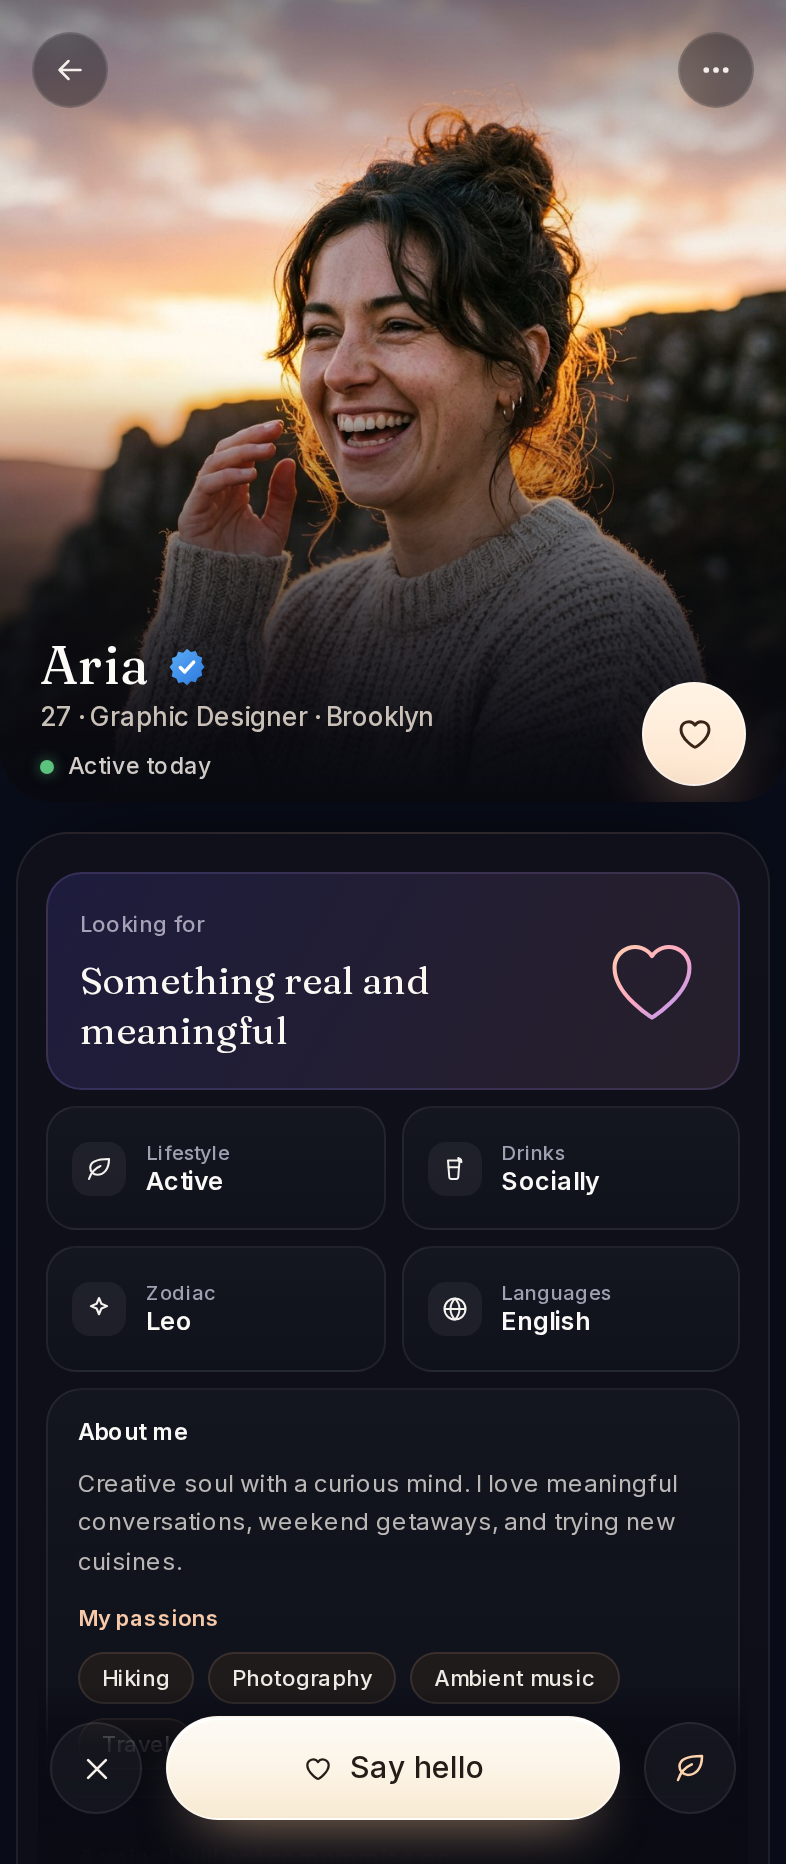
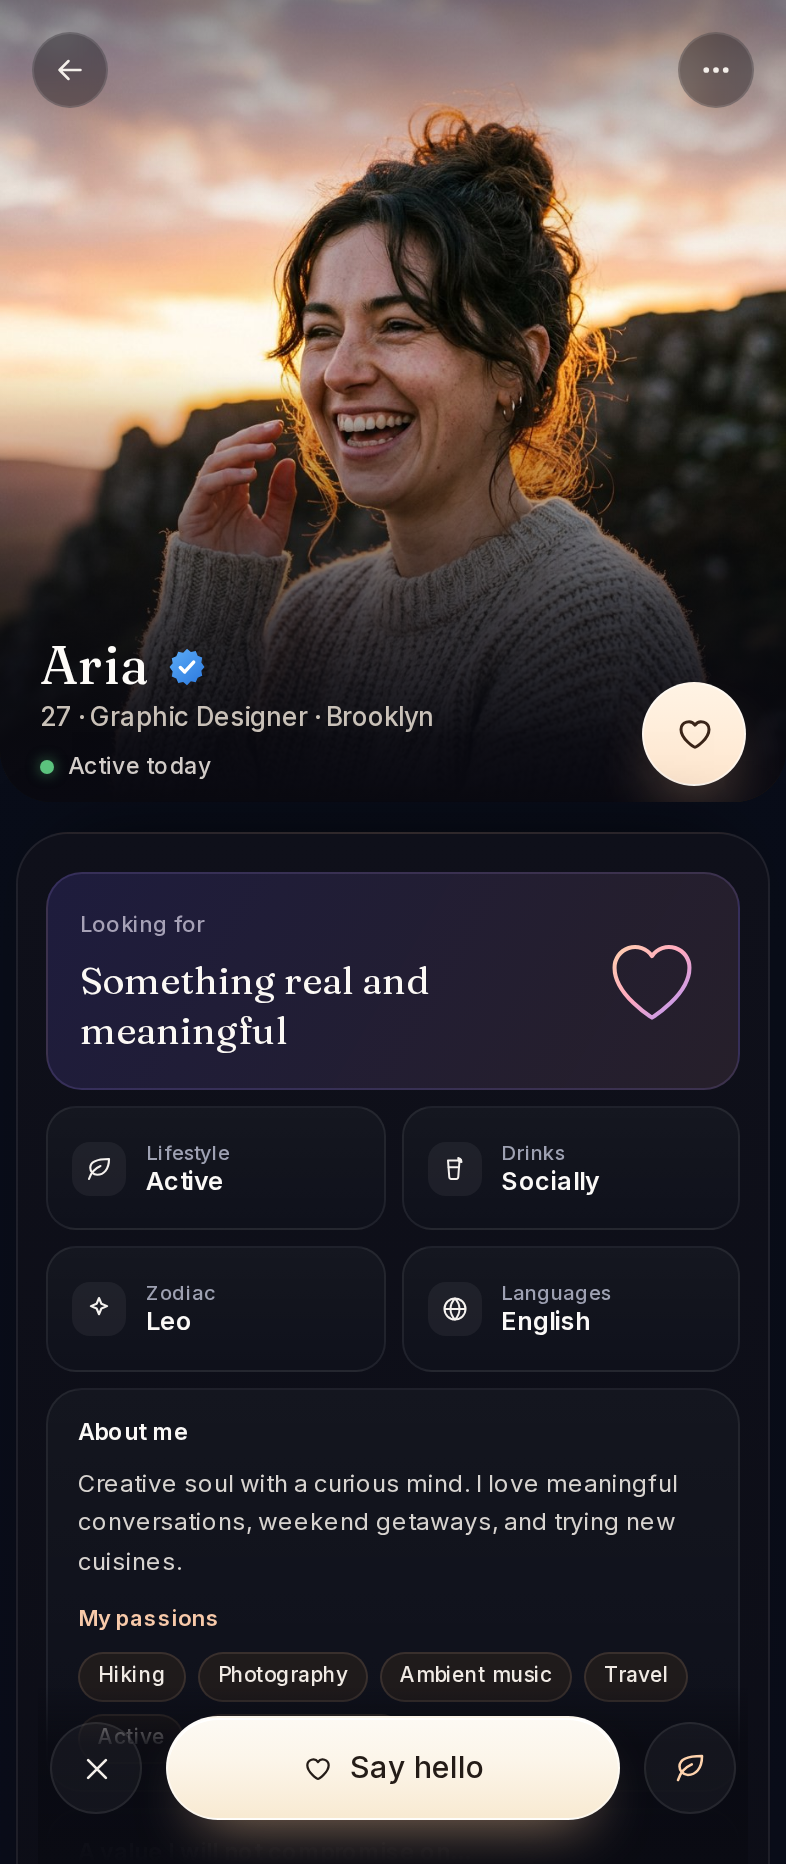
Discover: re-measured against the reference after a broken measurement pass
The previous pass drifted because measure.mjs still queried pre-rename class
names, so facts/tags reported null and the numbers I trusted were partial.

Re-derived every line from ink widths against the reference with a corrected
comparator (cmp3.py). Fixes: headline 32.5px with line-height back to 1.02
(ref width 225.2 vs our 222), name 31px (106.3 vs 118.5), meta and facts back
to 12px, card chips 12px at 13px offset, bio 11.5px on a 217px measure so it
breaks on the reference's own words with no ellipsis, eyebrow tracking 0.07em,
and the card's bottom padding opened to 32px so the action row sits off the
floor as in the reference (was 5px, i.e. flush). Tab labels 11px, active tab
back to the warm cream, icons 25-26px.

diff --git a/src/app/globals.css b/src/app/globals.css
@@ -1679,13 +1679,13 @@ textarea.fb-input { min-height: 110px; resize: none; line-height: 1.6; }
   align-items: flex-start;
   justify-content: space-between;
   gap: 14px;
-  padding: 20px var(--fb-sr-pad) 0;
+  padding: 15.5px var(--fb-sr-pad) 0;
 }
 
 .fb-sr-eyebrow {
-  font-size: 12.5px;
+  font-size: 12px;
   font-weight: 500;
-  letter-spacing: 0.15em;
+  letter-spacing: 0.07em;
   line-height: 16px;
   text-transform: uppercase;
   color: #cfc8c6;
@@ -1693,13 +1693,13 @@ textarea.fb-input { min-height: 110px; resize: none; line-height: 1.6; }
 
 .fb-sr-header__title {
   font-family: var(--font-display);
-  font-size: 34px;
+  font-size: 32.5px;
   font-weight: 400;
-  line-height: 0.95;
+  line-height: 1.02;
   letter-spacing: -0.01em;
   color: #fbf9f7;
   max-width: 12ch;
-  margin-top: 1px;
+  margin-top: 6.5px;
 }
 
 /* the count disc beside the headline */
@@ -1862,12 +1862,12 @@ textarea.fb-input { min-height: 110px; resize: none; line-height: 1.6; }
   background:
     linear-gradient(180deg, rgba(8, 9, 16, 0.34) 0%, rgba(8, 9, 16, 0.04) 16%, rgba(8, 9, 16, 0) 30%),
     linear-gradient(180deg,
-      rgba(9, 9, 15, 0) 28%,
-      rgba(9, 9, 15, 0.22) 45%,
-      rgba(9, 9, 15, 0.62) 55%,
-      rgba(9, 9, 15, 0.88) 62%,
-      rgba(10, 9, 15, 0.97) 68%,
-      #0a0a10 74%,
+      rgba(9, 9, 15, 0) 30%,
+      rgba(9, 9, 15, 0.20) 46%,
+      rgba(9, 9, 15, 0.58) 56%,
+      rgba(9, 9, 15, 0.90) 64%,
+      rgba(10, 9, 15, 0.98) 70%,
+      #0a0a10 76%,
       #0a0a10 100%);
 }
 
@@ -1909,12 +1909,12 @@ textarea.fb-input { min-height: 110px; resize: none; line-height: 1.6; }
   flex-direction: column;
   justify-content: flex-end;
   height: 100%;
-  padding: 0 var(--fb-sr-card-pad) 5px;
+  padding: 0 var(--fb-sr-card-pad) 32px;
 }
 
 .fb-sr-name {
   font-family: var(--font-display);
-  font-size: 34px;
+  font-size: 31px;
   font-weight: 400;
   line-height: 1;
   letter-spacing: 0;
@@ -1923,11 +1923,11 @@ textarea.fb-input { min-height: 110px; resize: none; line-height: 1.6; }
 }
 
 .fb-sr-meta {
-  margin-top: 31px;
-  font-size: 11.5px;
+  margin-top: 22px;
+  font-size: 12px;
   font-weight: 400;
-  line-height: 15px;
-  color: #d5cfce;
+  line-height: 16px;
+  color: #cfc9c8;
 }
 
 /* deck-only: the height + active row, and the deck's own chips. The profile
@@ -1945,11 +1945,11 @@ textarea.fb-input { min-height: 110px; resize: none; line-height: 1.6; }
   gap: 7px;
   font-size: 12px;
   line-height: 16px;
-  color: #d5cfce;
+  color: #cfc9c8;
 }
 .fb-sr-fact__dot {
-  width: 9px;
-  height: 9px;
+  width: 8px;
+  height: 8px;
   border-radius: 999px;
   background: #5cc47e;
   box-shadow: 0 0 8px rgba(92, 196, 126, 0.55);
@@ -1959,7 +1959,7 @@ textarea.fb-input { min-height: 110px; resize: none; line-height: 1.6; }
   display: flex;
   flex-wrap: nowrap;
   gap: 8px;
-  margin-top: 19px;
+  margin-top: 16px;
   overflow: hidden;
 }
 .fb-sr-tagline {
@@ -1967,11 +1967,11 @@ textarea.fb-input { min-height: 110px; resize: none; line-height: 1.6; }
   flex: none;
   align-items: center;
   height: 28px;
-  padding: 0 14px;
-  border: 1px solid rgba(198, 164, 142, 0.16);
+  padding: 0 15px;
+  border: 1px solid rgba(206, 176, 152, 0.20);
   border-radius: 999px;
-  background: rgba(38, 31, 28, 0.72);
-  color: #f0eae4;
+  background: rgba(46, 38, 34, 0.80);
+  color: #f2ece6;
   font-size: 12px;
   font-weight: 500;
   white-space: nowrap;
@@ -1979,9 +1979,9 @@ textarea.fb-input { min-height: 110px; resize: none; line-height: 1.6; }
 
 .fb-sr-bio {
   margin-top: 11px;
-  max-width: 238px;
-  font-size: 12px;
-  line-height: 20.4px;
+  max-width: 217px;
+  font-size: 11.5px;
+  line-height: 20.5px;
   color: #cfc9c8;
   display: -webkit-box;
   -webkit-line-clamp: 3;
@@ -1997,7 +1997,7 @@ textarea.fb-input { min-height: 110px; resize: none; line-height: 1.6; }
   align-items: center;
   justify-content: space-between;
   gap: 18px;
-  margin-top: 26px;
+  margin-top: 22px;
   padding: 0 14px;
 }
 
@@ -2043,7 +2043,7 @@ textarea.fb-input { min-height: 110px; resize: none; line-height: 1.6; }
   transform: translateX(-50%);
   pointer-events: none;
   filter: blur(8px);
-  background: radial-gradient(58% 66% at 50% 62%, rgba(238, 138, 104, 0.30), rgba(238, 138, 104, 0) 70%);
+  background: radial-gradient(76% 88% at 50% 60%, rgba(240, 146, 108, 0.46), rgba(238, 138, 104, 0.14) 56%, rgba(238, 138, 104, 0) 80%);
 }
 
 /* --- tab bar -------------------------------------------------------------- */
@@ -2065,17 +2065,17 @@ textarea.fb-input { min-height: 110px; resize: none; line-height: 1.6; }
   grid-template-columns: repeat(4, 1fr);
   max-width: 560px;
   margin: 0 auto;
-  padding: 17px 0 12px;
+  padding: 21px 0 12px;
 }
 .fb-sr-tabs .fb-sr-tab {
   position: relative;
   display: flex;
   flex-direction: column;
   align-items: center;
-  gap: 7px;
-  font-size: 11.5px;
+  gap: 9px;
+  font-size: 11px;
   font-weight: 500;
-  color: #63687a;
+  color: #8f93a3;
 }
 .fb-sr-tabs .fb-sr-tab[data-active="true"] { color: #e9c99a; }
 .fb-sr-tabs .fb-sr-tab__icon { position: relative; display: inline-flex; }

diff --git a/src/app/harness/fixture.tsx b/src/app/harness/fixture.tsx
@@ -144,7 +144,7 @@ export function HarnessFixture() {
             </span>
           </header>
 
-          <div className="fb-sr-chiprow mt-[22px]">
+          <div className="fb-sr-chiprow mt-[18px]">
             <span className="fb-sr-chip">Long-term</span>
             <span className="fb-sr-chip">Natural health</span>
             <span className="fb-sr-chip">Health autonomy</span>
@@ -184,26 +184,26 @@ export function HarnessFixture() {
         <div className="fb-sr-tabs__row">
           <span className="fb-sr-tab" data-active="true">
             <span className="fb-sr-tab__icon">
-              <DiscoverMark size={24} active />
+              <DiscoverMark size={26} active />
             </span>
             Discover
           </span>
           <span className="fb-sr-tab">
             <span className="fb-sr-tab__icon">
-              <HeartIcon size={22} />
+              <HeartIcon size={25} />
             </span>
             Likes
           </span>
           <span className="fb-sr-tab">
             <span className="fb-sr-tab__icon">
-              <ChatIcon size={22} />
+              <ChatIcon size={25} />
               <span className="fb-sr-tab__dot">2</span>
             </span>
             Messages
           </span>
           <span className="fb-sr-tab">
             <span className="fb-sr-tab__icon">
-              <ProfileIcon size={22} />
+              <ProfileIcon size={25} />
             </span>
             Profile
           </span>

diff --git a/src/components/app/app-shell.tsx b/src/components/app/app-shell.tsx
@@ -24,10 +24,10 @@ import {
  * it anyway — and the Profile tab is restored to the end of the bar.
  */
 const tabs = [
-  { href: "/app", label: "Discover", Icon: DiscoverMark, size: 24 },
-  { href: "/app/likes", label: "Likes", Icon: HeartIcon, size: 22 },
-  { href: "/app/chat", label: "Messages", Icon: ChatIcon, size: 22 },
-  { href: "/app/profile", label: "Profile", Icon: ProfileIcon, size: 22 },
+  { href: "/app", label: "Discover", Icon: DiscoverMark, size: 26 },
+  { href: "/app/likes", label: "Likes", Icon: HeartIcon, size: 25 },
+  { href: "/app/chat", label: "Messages", Icon: ChatIcon, size: 25 },
+  { href: "/app/profile", label: "Profile", Icon: ProfileIcon, size: 25 },
 ] as const;
 
 function FiltersIcon() {

diff --git a/src/components/app/home-deck.tsx b/src/components/app/home-deck.tsx
@@ -841,7 +841,7 @@ export function HomeDeck({ standalone = false }: { standalone?: boolean }) {
       {/* --- room filters: the three chips in the reference, plus one extra
               slice of the same saved-filter store so the panel is never the only
               way in. Each chip writes what the panel reads. -------------------- */}
-      <div className="fb-sr-chiprow mt-[22px]">
+      <div className="fb-sr-chiprow mt-[18px]">
         {ROOM_FILTERS.map((f) => {
           const on = f.active(filters);
           return (

diff --git a/src/components/app/deck-card.tsx b/src/components/app/deck-card.tsx
@@ -168,7 +168,7 @@ export function DeckCard({
             src={photo}
             alt={`${profile.name}, ${profile.age}`}
             className="h-full w-full"
-            imgClassName="object-cover object-center"
+            imgClassName="h-full w-full object-cover"
             priority={isTop}
           />
         ) : (
